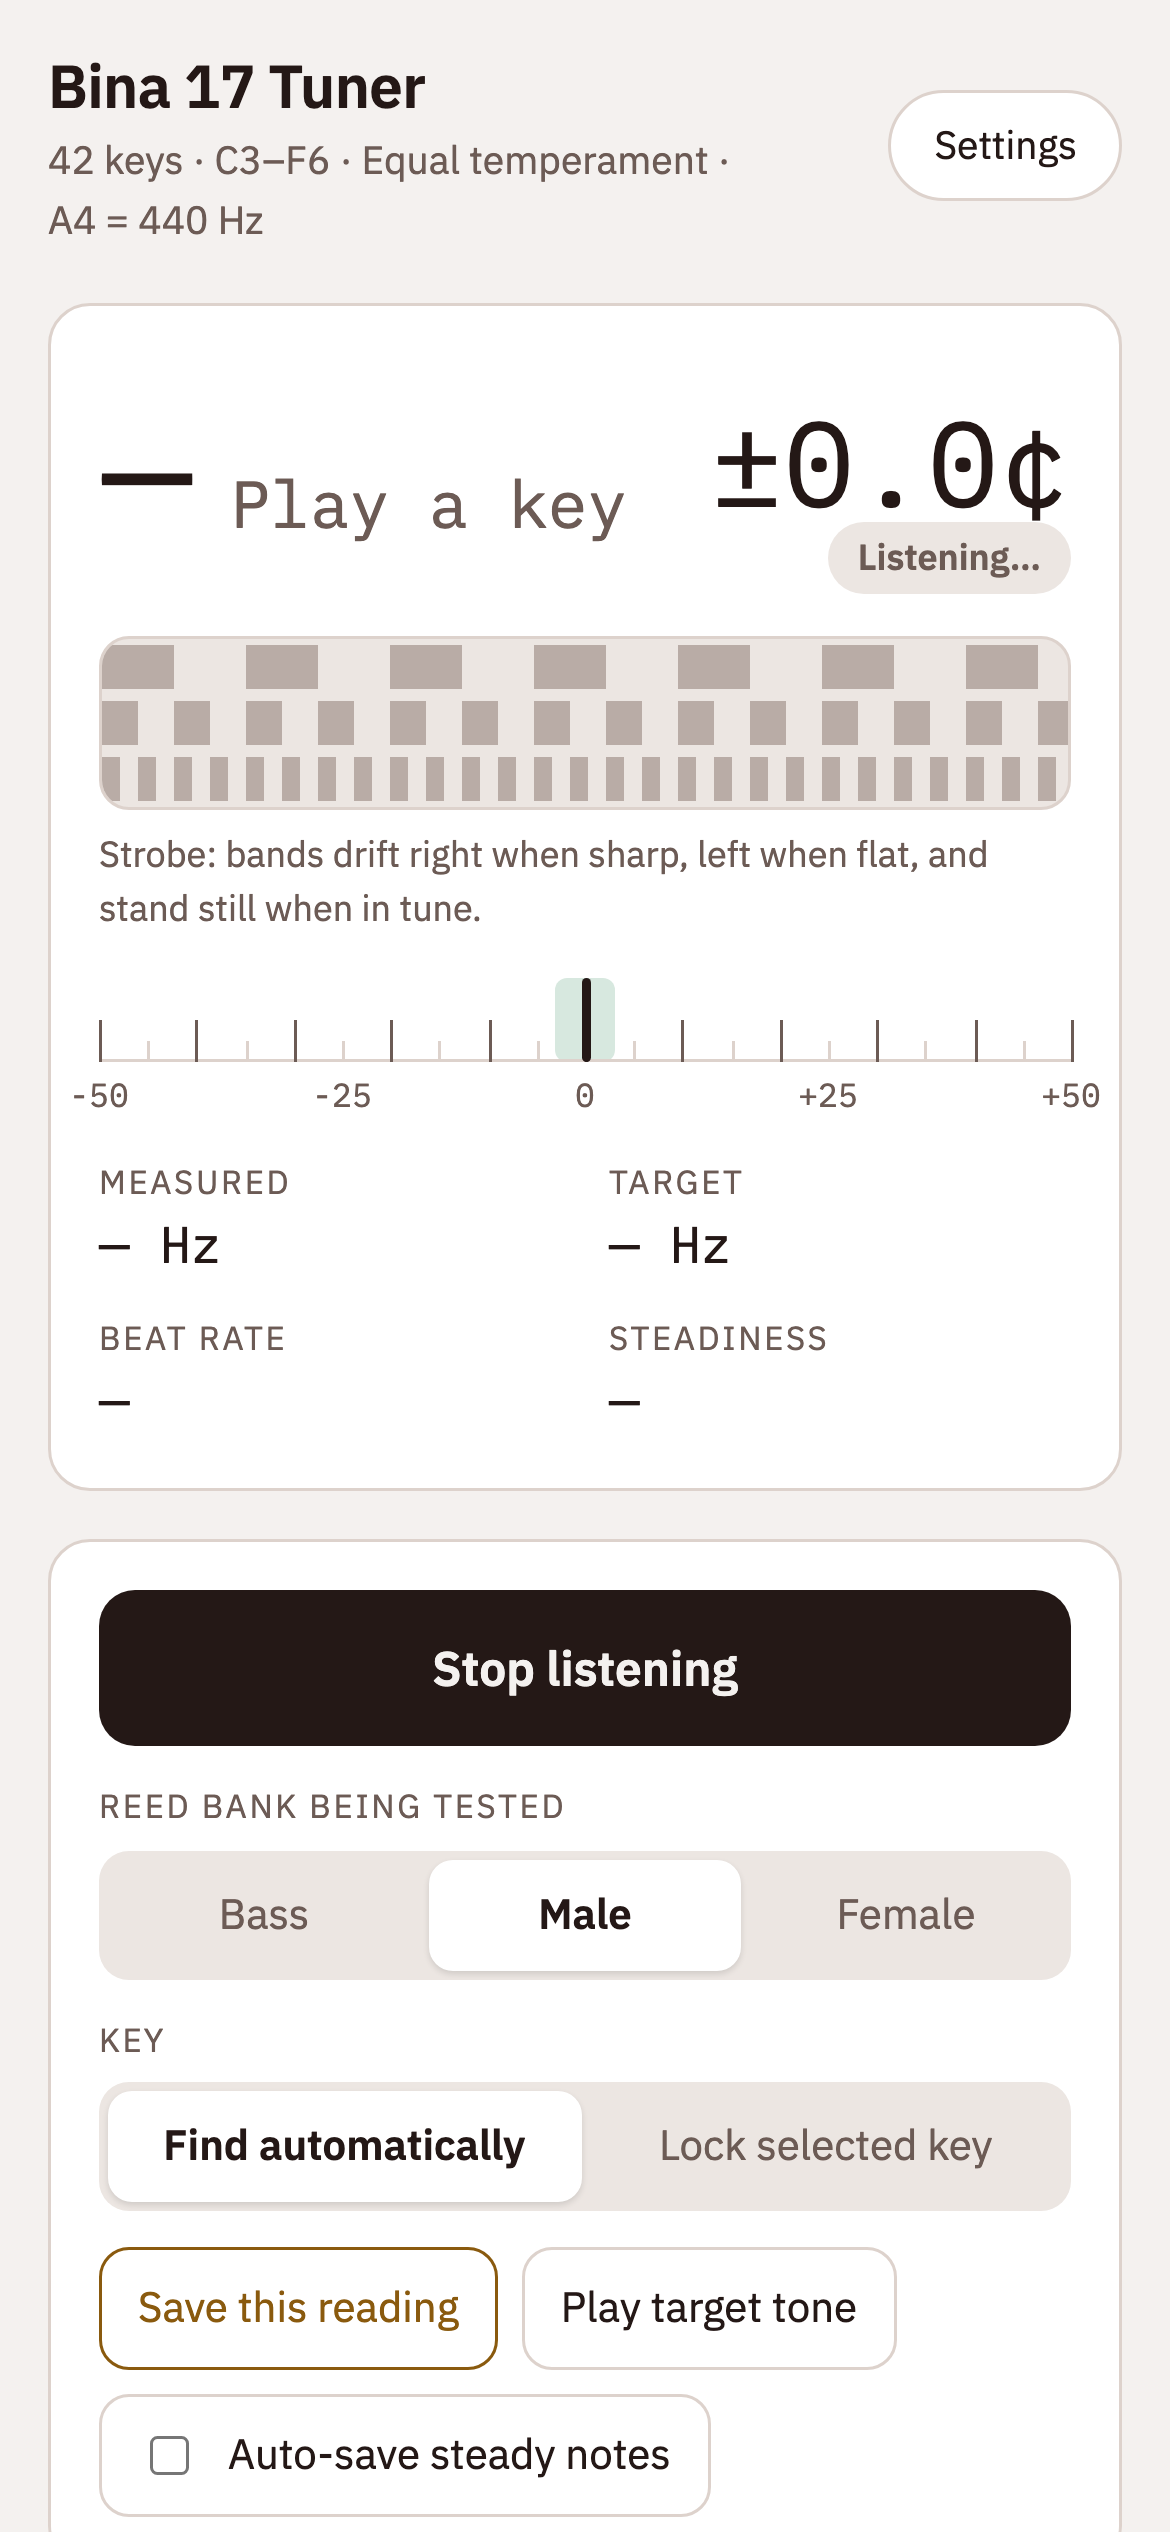
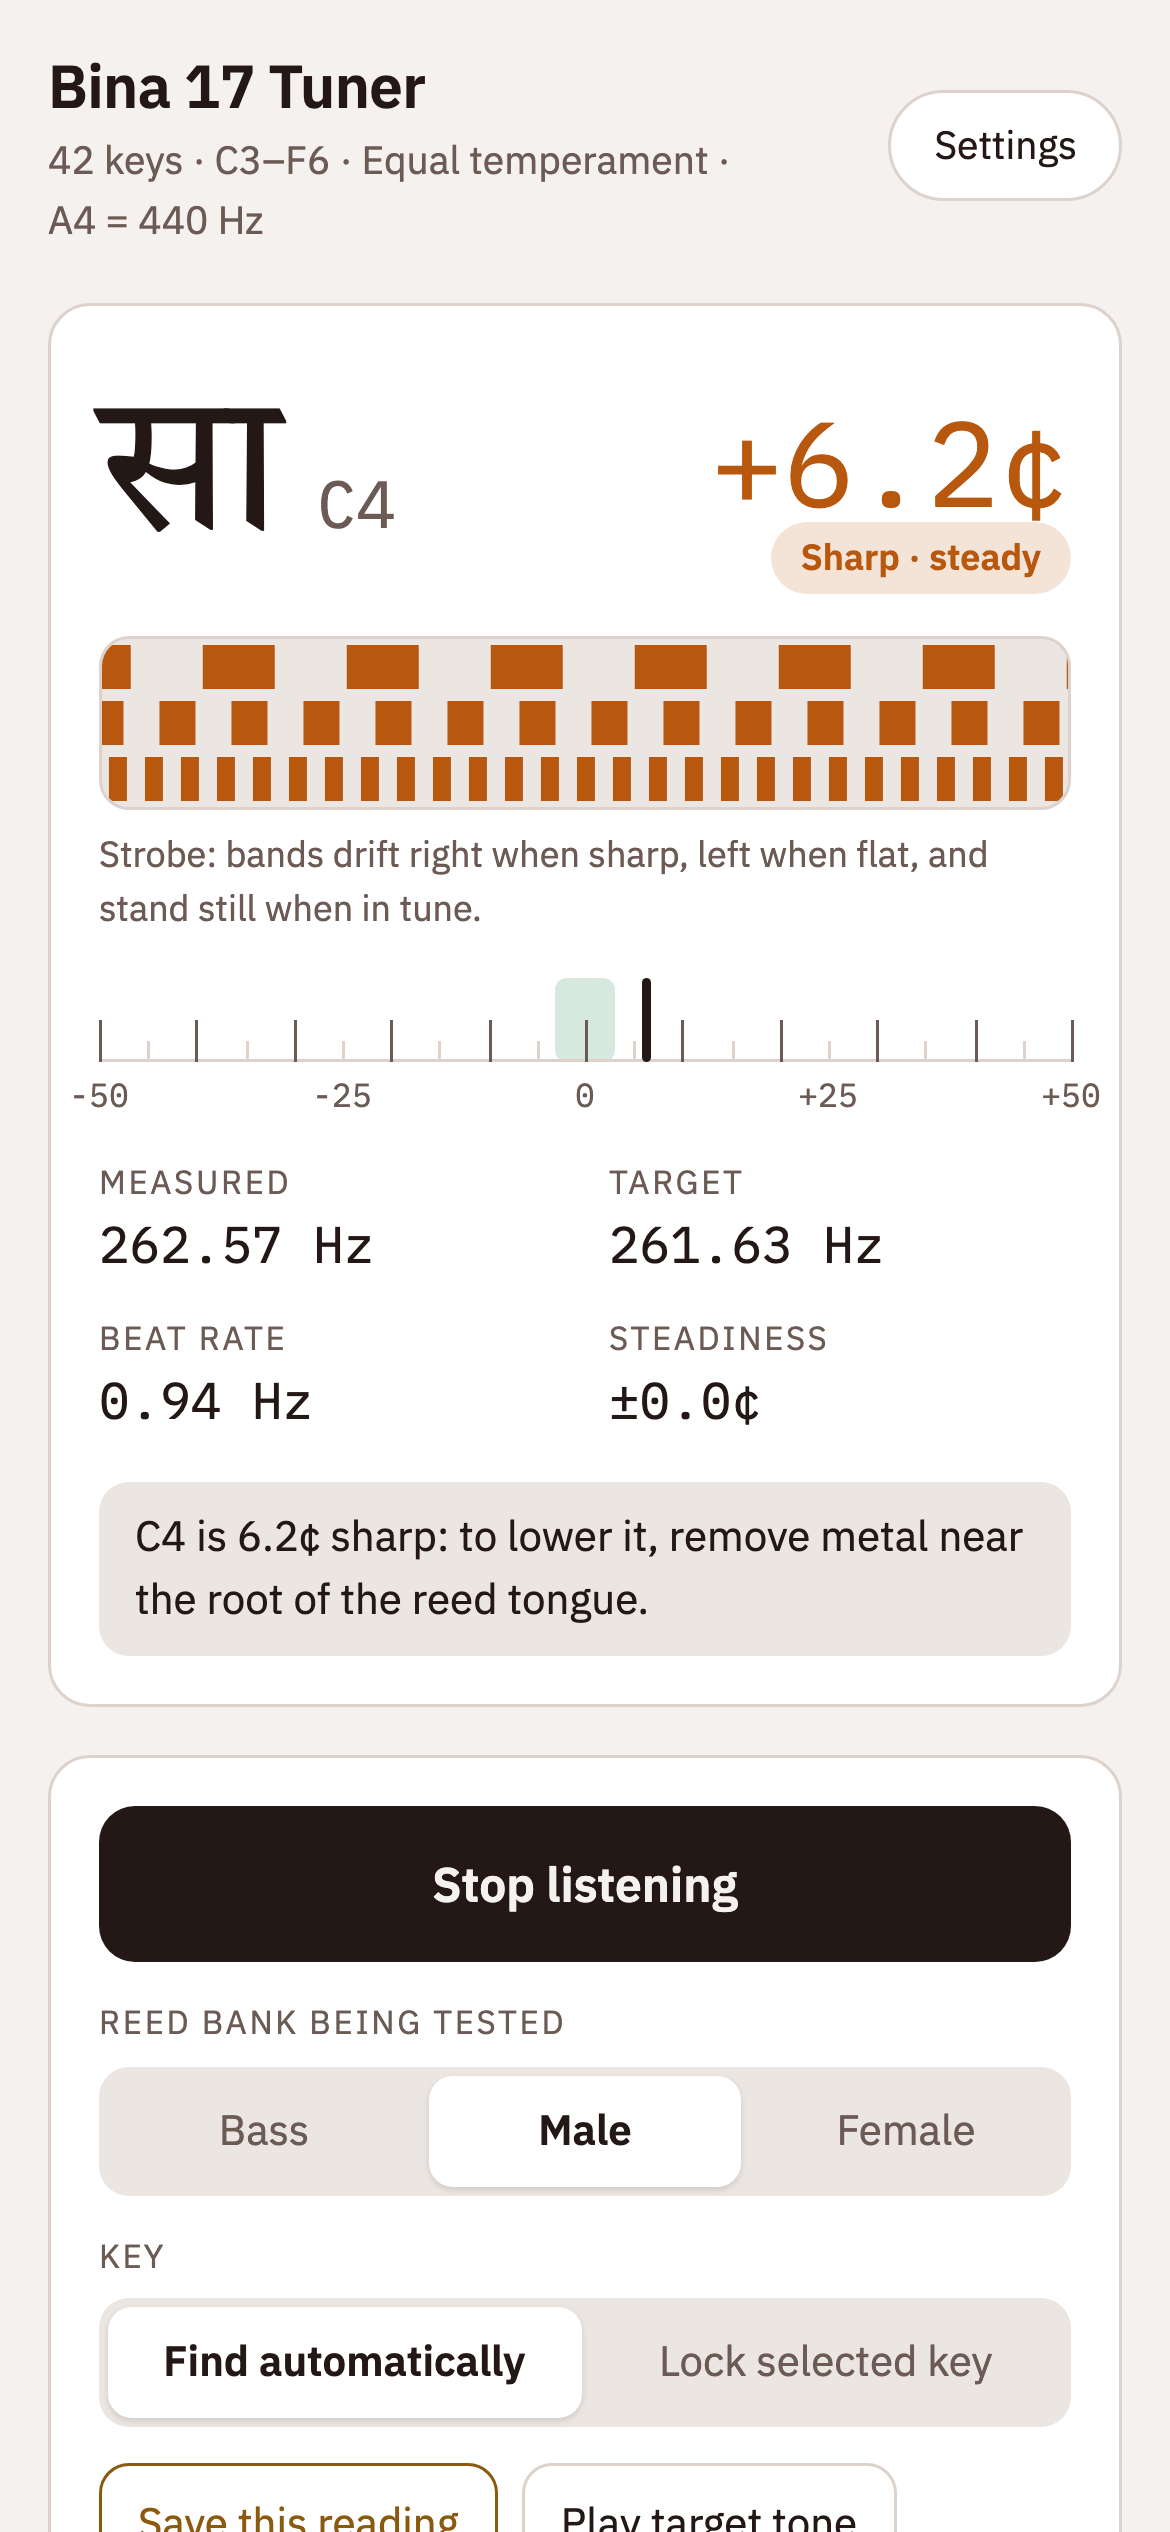
feat: update README with detailed features and instructions; add new screenshots

diff --git a/README.md b/README.md
@@ -1,12 +1,74 @@
 # Bina 17 Tuner
 
 A mobile-first, key-by-key tuner for the Bina 17 harmonium (42 keys, double reed). It listens through the
-microphone and shows each key's deviation in cents, beat rate and steadiness, saves a reading per key and
-reed bank, and gives step-by-step tuning instructions for every key based on what it measured: direction
+microphone and shows each key's deviation in cents, beat rate and steadiness. It saves a reading per key and
+reed bank, then gives step-by-step tuning instructions for every key based on what it measured: direction
 and amount, steadiness, the reed's register, progress since the last reading, agreement with the other reed
 bank, and whether the whole instrument sits at a different pitch.
 
 Built with React and Vite. No backend: readings are stored in the browser (`localStorage`).
+
+![Bina 17 Tuner on desktop: live reading of C4 at +6.2 cents, with the selected key's instructions alongside](docs/screenshots/desktop-light.png)
+
+## Features
+
+- **Live reading.** Shows the swara in Devanagari, the Western note name and the cents deviation, with a
+  strobe and a ±50¢ meter. Also shows measured and target frequency, beat rate and steadiness.
+- **Three reed banks.** Bass (16'), Male (8') and Female (4') each get their own targets and readings.
+- **Find the key automatically, or lock one.** Hold a key steady for about a second and the reading saves
+  itself.
+- **Equal temperament or just intonation.** Uses 5-limit just ratios from a Sa you choose, with A4
+  adjustable.
+- **Instructions for each key.** Tells you which end of the reed tongue to work and roughly how much. It
+  also reports overshoot and progress from earlier readings, and warns when the reed banks disagree.
+- **Report.** Shows every key with its status and the action to take. Copy it to a spreadsheet or export it
+  as CSV.
+- **Light and dark themes** that follow the system setting.
+
+## Screenshots
+
+<table>
+  <tr>
+    <td width="50%"><img src="docs/screenshots/mobile-live.png" alt="Phone: live reading of C4, 6.2 cents sharp, with strobe and meter"></td>
+    <td width="50%"><img src="docs/screenshots/mobile-key.png" alt="Phone: selected key sheet with targets on each reed bank and step-by-step reed instructions"></td>
+  </tr>
+  <tr>
+    <td align="center"><sub>Live reading on a phone</sub></td>
+    <td align="center"><sub>What to do for the selected key</sub></td>
+  </tr>
+</table>
+
+**Keyboard.** Each of the 42 keys shows its last reading and a status colour. Tap a key to inspect it.
+
+![Keyboard overview with per-key cents and in-tune, close, needs-work and untested markers](docs/screenshots/keyboard.png)
+
+<table>
+  <tr>
+    <td width="50%"><img src="docs/screenshots/report.png" alt="Tuning report for the Male reeds: summary and per-key table"></td>
+    <td width="50%"><img src="docs/screenshots/key-sheet.png" alt="Key sheet for C4 with readings on each bank, instructions and history"></td>
+  </tr>
+  <tr>
+    <td align="center"><sub>Tuning report and CSV export</sub></td>
+    <td align="center"><sub>Key detail with reading history</sub></td>
+  </tr>
+</table>
+
+<details>
+<summary>Dark theme</summary>
+
+![Bina 17 Tuner in dark theme](docs/screenshots/desktop-dark.png)
+
+</details>
+
+## How to tune with it
+
+1. Open only one reed-bank stop (Bass or Male) and keep the drone stops shut.
+2. Select the same bank in the app. Place the phone 20–30 cm from the reed board in a quiet room.
+3. Pump the bellows to your normal playing pressure and hold each key for about two seconds.
+4. Work through all 42 keys, then switch banks and repeat.
+5. Follow each key's instructions. Scrape at the free tip to raise the pitch and near the rivet to lower
+   it, a little at a time, measuring after each round. Old reeds are brittle. If you are unsure, take the
+   report to a harmonium technician.
 
 ## Run locally
 
@@ -17,16 +79,16 @@ npm test         # pitch-detection and tuning maths tests
 npm run build    # production build in dist/
 ```
 
-The microphone only works on `localhost` or over HTTPS, so test on a phone through the deployed site.
+The microphone only works on `localhost` or over HTTPS. To test on a phone, use the deployed site.
 
 ## Deploy to Vercel
 
 Either:
 
-- Push this folder to a GitHub, GitLab or Bitbucket repository, then in Vercel choose **Add New → Project**,
-  import the repository and press **Deploy**. Vercel detects Vite; `vercel.json` pins the build command and
-  output folder.
-- Or, from this folder, run `npx vercel` (first deploy and preview) and `npx vercel --prod`.
+- Push this folder to a GitHub, GitLab or Bitbucket repository. In Vercel, choose **Add New → Project**,
+  import the repository and press **Deploy**. Vercel detects Vite, and `vercel.json` pins the build command
+  and output folder.
+- Or, from this folder, run `npx vercel` for the first deploy and a preview, then `npx vercel --prod`.
 
 Vercel serves over HTTPS, so the microphone works on phones. `vercel.json` also sends
 `Permissions-Policy: microphone=(self)`.
@@ -43,4 +105,5 @@ src/
   hooks/useTuningStore.js settings and saved readings, persisted to localStorage
   components/             Readout, Strobe, Meter, Controls, Keyboard, KeySheet, Instructions, Report, ...
 tests/                    accuracy tests (within 0.1 cent from C2 to F6) and instruction tests
+docs/screenshots/         images used in this README
 ```
